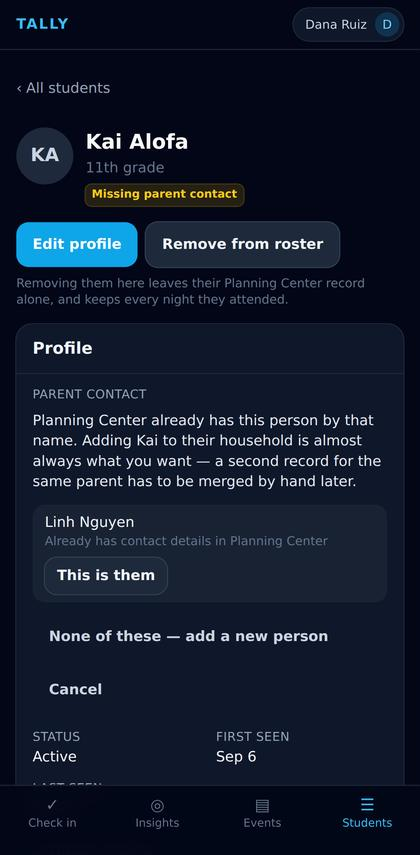
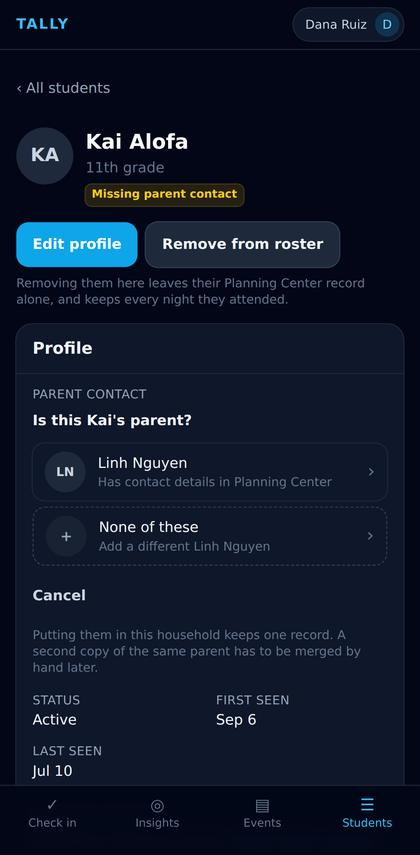
Make the duplicate check a list of answers rather than a wall of text
Four passes over the chooser, each one looked at on a phone-sized render
of the real app rather than reasoned about.

What was wrong: the two ways out were ghost buttons, which are
transparent — on a dark phone they read as sentences, and the one that
matters ("this is somebody else") looked like a caption. The reason for
the screen led with four lines of body text before a leader could see
there was anything to decide. And "This is them" beside each name wrapped
onto two lines, leaving the tap target smaller than the name it referred
to.

What it is now: the question first, in one line. Then every answer as a
row in one list — each candidate a whole-row button, exactly as a student
row on the check-in screen is, because picking a person out of a short
list is the same gesture in both places. "None of these" is the last row
rather than a button competing with the list, dashed and marked with a ＋
so it does not read as a third person Planning Center found; its subtitle
names the consequence precisely — "Add a different Alex Rivera". Cancel
is the only thing left outside the list, because it is the only thing
that is not an answer. The rationale moved underneath, where it is read
once and never again.

Spinners are per-choice now. One `busy` flag put a spinner on every row
at once, which on a screen whose whole job is telling two people apart is
the one thing it must not do.

The walkthrough is re-shot against the new screen.
[…]

Changed region(s): [[0.0619, 0.6082, 0.8357, 0.9123], [0.0619, 0.4865, 0.8976, 0.5778]]

diff --git a/src/features/students/AddParentContact.tsx b/src/features/students/AddParentContact.tsx
@@ -30,6 +30,7 @@ import { useState, type FormEvent } from 'react';
 import { Button, TextField } from '@/components/ui';
 import { useToast } from '@/context/toastContext';
 import { pcoPersonUrl } from '@/lib/planningCenter';
+import { cn, initials } from '@/lib/utils';
 import { addParent, setParentContact, type ExistingPerson } from '@/services/functions';
 import { studentFullName, type PcoPersonDetails, type Student } from '@/types';
 
@@ -266,6 +267,14 @@ function ParentForm({
   const [problem, setProblem] = useState<string | null>(null);
   /** Non-null once the server has said "these people already have this name". */
   const [candidates, setCandidates] = useState<ExistingPerson[] | null>(null);
+  /*
+   * Which choice is in flight — a candidate's id, or `new`.
+   *
+   * A single `busy` flag put a spinner on every row at once, which on a screen
+   * whose entire job is telling two people apart is the one thing it must not
+   * do.
+   */
+  const [pending, setPending] = useState<string | null>(null);
 
   const phoneOk = phone.trim() === '' || usablePhone(phone);
   const emailOk = email.trim() === '' || usableEmail(email);
@@ -277,6 +286,7 @@ function ParentForm({
    */
   const send = async (choice: { personId?: string; createNew?: boolean } = {}) => {
     setBusy(true);
+    setPending(choice.personId ?? (choice.createNew ? 'new' : 'ask'));
     setProblem(null);
     try {
       const response = await addParent({
@@ -316,6 +326,7 @@ function ParentForm({
       setProblem('Could not reach Planning Center to add this. Try again in a moment.');
     } finally {
       setBusy(false);
+      setPending(null);
     }
   };
 
@@ -323,48 +334,147 @@ function ParentForm({
   if (candidates && candidates.length > 0) {
     return (
       <div className="mt-2 flex flex-col gap-3">
-        <p className="text-sm text-ink-200">
-          Planning Center already has {candidates.length === 1 ? 'this person' : 'these people'} by
-          that name. Adding {student.firstName} to their household is almost always what you want —
-          a second record for the same parent has to be merged by hand later.
+        {/*
+          A question, then the reason — in that order and in that weight. The
+          reason used to lead, as four lines of body text a leader had to read
+          before they could see there was anything to decide.
+        */}
+        <p className="text-sm font-semibold text-ink-100">
+          {candidates.length === 1
+            ? `Is this ${student.firstName}'s parent?`
+            : `Which of these is ${student.firstName}'s parent?`}
         </p>
 
-        <ul className="flex flex-col gap-2">
-          {candidates.map((candidate) => (
-            <li
-              key={candidate.pcoPersonId}
-              className="flex flex-wrap items-center justify-between gap-2 rounded-xl bg-ink-800/60 px-3 py-2"
+        {/*
+          The whole row is the button, exactly as a student row on the check-in
+          screen is. Picking a person out of a short list is the same gesture in
+          both places, and it is the gesture a thumb is good at — a "This is
+          them" button beside the name wrapped onto two lines on a phone and
+          left the tap target smaller than the name it referred to.
+        */}
+        <ul className="flex flex-col gap-1.5">
+          {candidates.map((candidate) => {
+            const [first, ...rest] = candidate.name.split(/\s+/);
+            const choosing = pending === candidate.pcoPersonId;
+            return (
+              <li key={candidate.pcoPersonId}>
+                <button
+                  type="button"
+                  onClick={() => void send({ personId: candidate.pcoPersonId })}
+                  disabled={busy}
+                  aria-busy={choosing || undefined}
+                  aria-label={`${candidate.name} is ${student.firstName}'s parent`}
+                  className={cn(
+                    'flex min-h-14 w-full items-center gap-3 rounded-xl px-3 py-2 text-left ring-1',
+                    'bg-ink-900 ring-ink-800 transition-colors active:bg-ink-800 disabled:opacity-60',
+                  )}
+                >
+                  <span
+                    aria-hidden="true"
+                    className="flex size-10 shrink-0 items-center justify-center rounded-full bg-ink-800 text-xs font-bold text-ink-300"
+                  >
+                    {initials(first ?? candidate.name, rest.join(' '))}
+                  </span>
+                  <span className="min-w-0 flex-1">
+                    <span className="block truncate text-sm font-medium text-ink-100">
+                      {candidate.name}
+                    </span>
+                    <span className="block truncate text-xs text-ink-500">
+                      {candidate.reachable
+                        ? 'Has contact details in Planning Center'
+                        : 'No contact details on file yet'}
+                    </span>
+                  </span>
+                  {choosing ? (
+                    <span
+                      aria-hidden="true"
+                      className="size-4 shrink-0 animate-spin rounded-full border-2 border-ink-500 border-t-transparent"
+                    />
+                  ) : (
+                    <span aria-hidden="true" className="shrink-0 text-lg leading-none text-ink-500">
+                      ›
+                    </span>
+                  )}
+                </button>
+              </li>
+            );
+          })}
+
+          {/*
+            "None of these" is an answer to the question, not a way out of it,
+            so it is the last row rather than a button competing with the list.
+            The dashed ring and the ＋ are what keep it from reading as a third
+            person Planning Center found.
+          */}
+          <li>
+            <button
+              type="button"
+              onClick={() => void send({ createNew: true })}
+              disabled={busy}
+              aria-busy={pending === 'new' || undefined}
+              className={cn(
+                'flex min-h-14 w-full items-center gap-3 rounded-xl px-3 py-2 text-left',
+                // A dashed *border*: rings cannot be dashed, and the dash is
+                // what says this row is an action rather than a person.
+                'border border-dashed border-ink-700 transition-colors active:bg-ink-800 disabled:opacity-60',
+              )}
             >
-              <span className="text-sm text-ink-100">
-                {candidate.name}
-                <span className="block text-xs text-ink-500">
-                  {candidate.reachable
-                    ? 'Already has contact details in Planning Center'
-                    : 'No contact details on file yet'}
+              <span
+                aria-hidden="true"
+                className="flex size-10 shrink-0 items-center justify-center rounded-full bg-ink-800/60 text-base font-bold text-ink-400"
+              >
+                ＋
+              </span>
+              <span className="min-w-0 flex-1">
+                <span className="block truncate text-sm font-medium text-ink-100">
+                  None of these
+                </span>
+                <span className="block truncate text-xs text-ink-500">
+                  Add a different {`${firstName.trim()} ${lastName.trim()}`.trim() || 'person'}
                 </span>
               </span>
-              <Button
-                size="sm"
-                variant="secondary"
-                loading={busy}
-                onClick={() => void send({ personId: candidate.pcoPersonId })}
-              >
-                This is them
-              </Button>
-            </li>
-          ))}
+              {pending === 'new' ? (
+                <span
+                  aria-hidden="true"
+                  className="size-4 shrink-0 animate-spin rounded-full border-2 border-ink-500 border-t-transparent"
+                />
+              ) : (
+                <span aria-hidden="true" className="shrink-0 text-lg leading-none text-ink-500">
+                  ›
+                </span>
+              )}
+            </button>
+          </li>
         </ul>
 
         {problem ? <p className="text-sm text-danger-400">{problem}</p> : null}
 
-        <div className="flex flex-wrap items-center gap-2">
-          <Button variant="ghost" loading={busy} onClick={() => void send({ createNew: true })}>
-            None of these — add a new person
-          </Button>
-          <Button type="button" variant="ghost" onClick={onClose}>
+        {/* Cancel is the only thing here that is not an answer to the question,
+            so it is the only thing outside the list. Pulled back by its own
+            padding so its label starts on the same line as everything above it. */}
+        <div>
+          <Button
+            type="button"
+            variant="ghost"
+            size="sm"
+            className="-ml-3"
+            disabled={busy}
+            onClick={onClose}
+          >
             Cancel
           </Button>
         </div>
+
+        {/*
+          Under the choice rather than over it. It is the reason the recommended
+          answer is recommended, which is worth reading once and never again —
+          and above the list it was four lines standing between a leader and the
+          two buttons they came here for.
+        */}
+        <p className="text-xs text-ink-500">
+          Putting them in this household keeps one record. A second copy of the same parent has to be
+          merged by hand later.
+        </p>
       </div>
     );
   }

diff --git a/src/features/students/AddParentContact.test.tsx b/src/features/students/AddParentContact.test.tsx
@@ -320,7 +320,7 @@ describe('AddParentContact', () => {
         const onAdded = await askThenOffer();
 
         expect(await screen.findByText('Wen Lee')).toBeInTheDocument();
-        expect(screen.getByText(/Already has contact details/)).toBeInTheDocument();
+        expect(screen.getByText(/Has contact details in Planning Center/)).toBeInTheDocument();
         expect(onAdded).not.toHaveBeenCalled();
       });
 
@@ -328,7 +328,7 @@ describe('AddParentContact', () => {
         const onAdded = await askThenOffer();
         addParent.mockResolvedValueOnce(added);
 
-        await userEvent.click(await screen.findByRole('button', { name: 'This is them' }));
+        await userEvent.click(await screen.findByRole('button', { name: /is Janet's parent/ }));
 
         await waitFor(() => expect(onAdded).toHaveBeenCalled());
         expect(addParent).toHaveBeenLastCalledWith(
@@ -340,7 +340,7 @@ describe('AddParentContact', () => {
         const onAdded = await askThenOffer();
         addParent.mockResolvedValueOnce(added);
 
-        await userEvent.click(await screen.findByRole('button', { name: /add a new person/i }));
+        await userEvent.click(await screen.findByRole('button', { name: /None of these/ }));
 
         await waitFor(() => expect(onAdded).toHaveBeenCalled());
         expect(addParent).toHaveBeenLastCalledWith(expect.objectContaining({ createNew: true }));

diff --git a/e2e/parent-walkthrough.spec.ts b/e2e/parent-walkthrough.spec.ts
@@ -191,9 +191,11 @@ test('capture the parent flows', async ({ page, signedInAs }) => {
   await page.getByLabel('Parent last name').fill('Nguyen');
   await page.getByRole('button', { name: 'Save to Planning Center' }).click();
 
-  const thisIsThem = page.getByRole('button', { name: 'This is them' });
+  // The candidate rows are whole-row buttons, labelled with the choice they
+  // make — the same shape a student row on the check-in screen has.
+  const thisIsThem = page.getByRole('button', { name: /is Kai's parent/ });
   await thisIsThem.waitFor({ timeout: 30_000 });
-  await show(page.getByText(/already has/).first());
+  await show(page.getByText(/Is this Kai's parent\?/));
   await capture(page, {
     flow: 'The duplicate check',
     title: 'Planning Center already has a Linh Nguyen',
